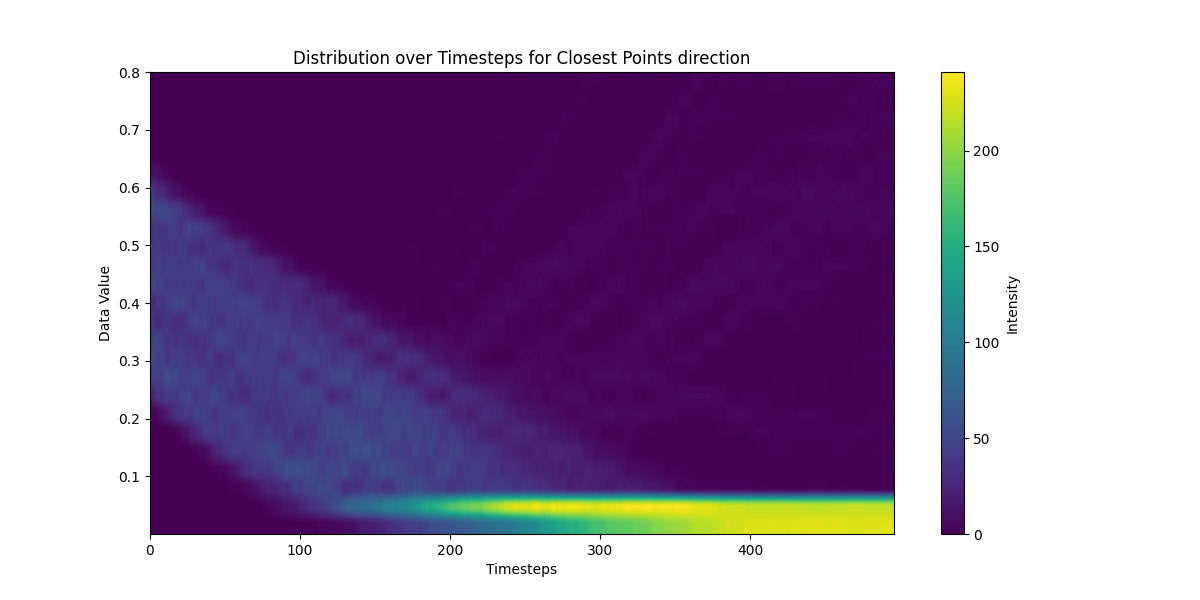
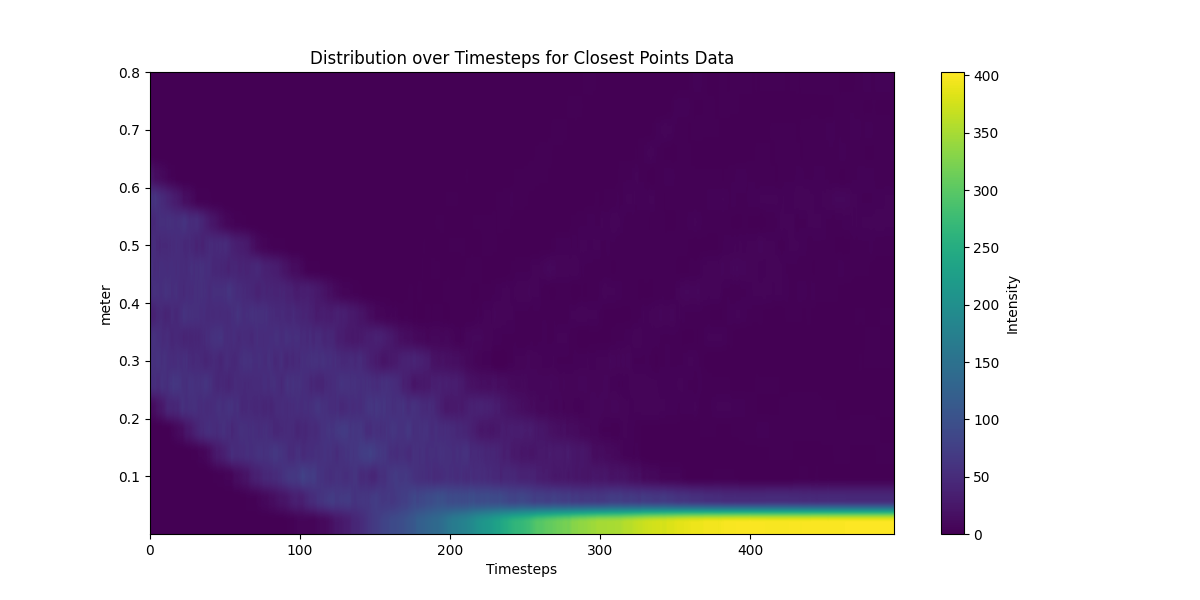
figs updated

diff --git a/eps_graph.py b/eps_graph.py
@@ -32,13 +32,13 @@ def quaternion_difference_norm(q1, q2):
     q_diff = R.from_quat(q1).inv() * R.from_quat(q2)
     return np.linalg.norm(q_diff.as_quat())
 
-def plot_distribution(distribution, zones, direction):
+def plot_distribution(distribution, zones, direction, ylabel='Data Value'):
     plt.figure(figsize=(12, 6))
     plt.imshow(distribution.T, aspect='auto', cmap='viridis', origin='lower', extent=[0, distribution.shape[0], zones[0], zones[-1]])
     plt.colorbar(label='Intensity')
     plt.xlabel('Timesteps')
-    plt.ylabel('Data Value')
-    plt.title(f'Distribution over Timesteps for {direction} direction')
+    plt.ylabel(ylabel)
+    plt.title(f'Distribution over Timesteps for {direction} Data')
     plt.savefig(f"{direction}_distribution.png")
 
 def calculate_distribution(data, num_zones):
@@ -64,6 +64,7 @@ closest_points = data['all_closest_points']
 position_actions = data['all_position_actions']
 orientation_actions = data['all_orientation_actions']
 gripper_linear_velocities = data['all_gripper_linear_velocities']
+gripper_angular_velocities = data['all_gripper_angular_velocities']
 gripper_orientations = data['all_gripper_orientations']
 block_orientations = data['all_block_orientations']
 gripper_quaternions = np.apply_along_axis(euler_to_quaternion, 2, gripper_orientations)
@@ -89,25 +90,29 @@ orientation_actions_magnitudes = np.linalg.norm(orientation_actions, axis=2)
 orientation_actions = np.expand_dims(orientation_actions_magnitudes, axis=2)
 gripper_linear_velocities_magnitudes = np.linalg.norm(gripper_linear_velocities, axis=2)
 gripper_linear_velocities = np.expand_dims(gripper_linear_velocities_magnitudes, axis=2)
+gripper_angular_velocities_magnitudes = np.linalg.norm(gripper_angular_velocities, axis=2)
+gripper_angular_velocities = np.expand_dims(gripper_angular_velocities_magnitudes, axis=2)
 
 
-
-distribution, zones = calculate_distribution(position_rewards, num_zones=50)
+distribution, zones = calculate_distribution(position_rewards, num_zones=20)
 plot_distribution(distribution, zones, 'Position Rewards')
 
-distribution, zones = calculate_distribution(closest_points, num_zones=25)
-plot_distribution(distribution, zones, 'Closest Points')
+distribution, zones = calculate_distribution(closest_points, num_zones=20)
+plot_distribution(distribution, zones, 'Closest Points', ylabel='meter')
 
-distribution, zones = calculate_distribution(position_actions, num_zones=50)
+distribution, zones = calculate_distribution(position_actions, num_zones=20)
 plot_distribution(distribution, zones, 'Position Actions')
 
 distribution, zones = calculate_distribution(orientation_actions, num_zones=10)
 plot_distribution(distribution, zones, 'Orientation Actions')
 
-distribution, zones = calculate_distribution(gripper_linear_velocities, num_zones=50)
-plot_distribution(distribution, zones, 'Gripper Linear Velocities')
+distribution, zones = calculate_distribution(gripper_linear_velocities, num_zones=20)
+plot_distribution(distribution, zones, 'Gripper Linear Velocities', ylabel='meter/second')
 
-distribution, zones = calculate_distribution(quaternion_differences, num_zones=25)
-plot_distribution(distribution, zones, 'Quaternion Differences')
+distribution, zones = calculate_distribution(quaternion_differences, num_zones=20)
+plot_distribution(distribution, zones, 'Quaternion Differences', ylabel='radians')
+
+distribution, zones = calculate_distribution(gripper_angular_velocities, num_zones=20)
+plot_distribution(distribution, zones, 'Gripper Angular Velocities', ylabel='radians/second')
 
 print("Plot created successfully!")
